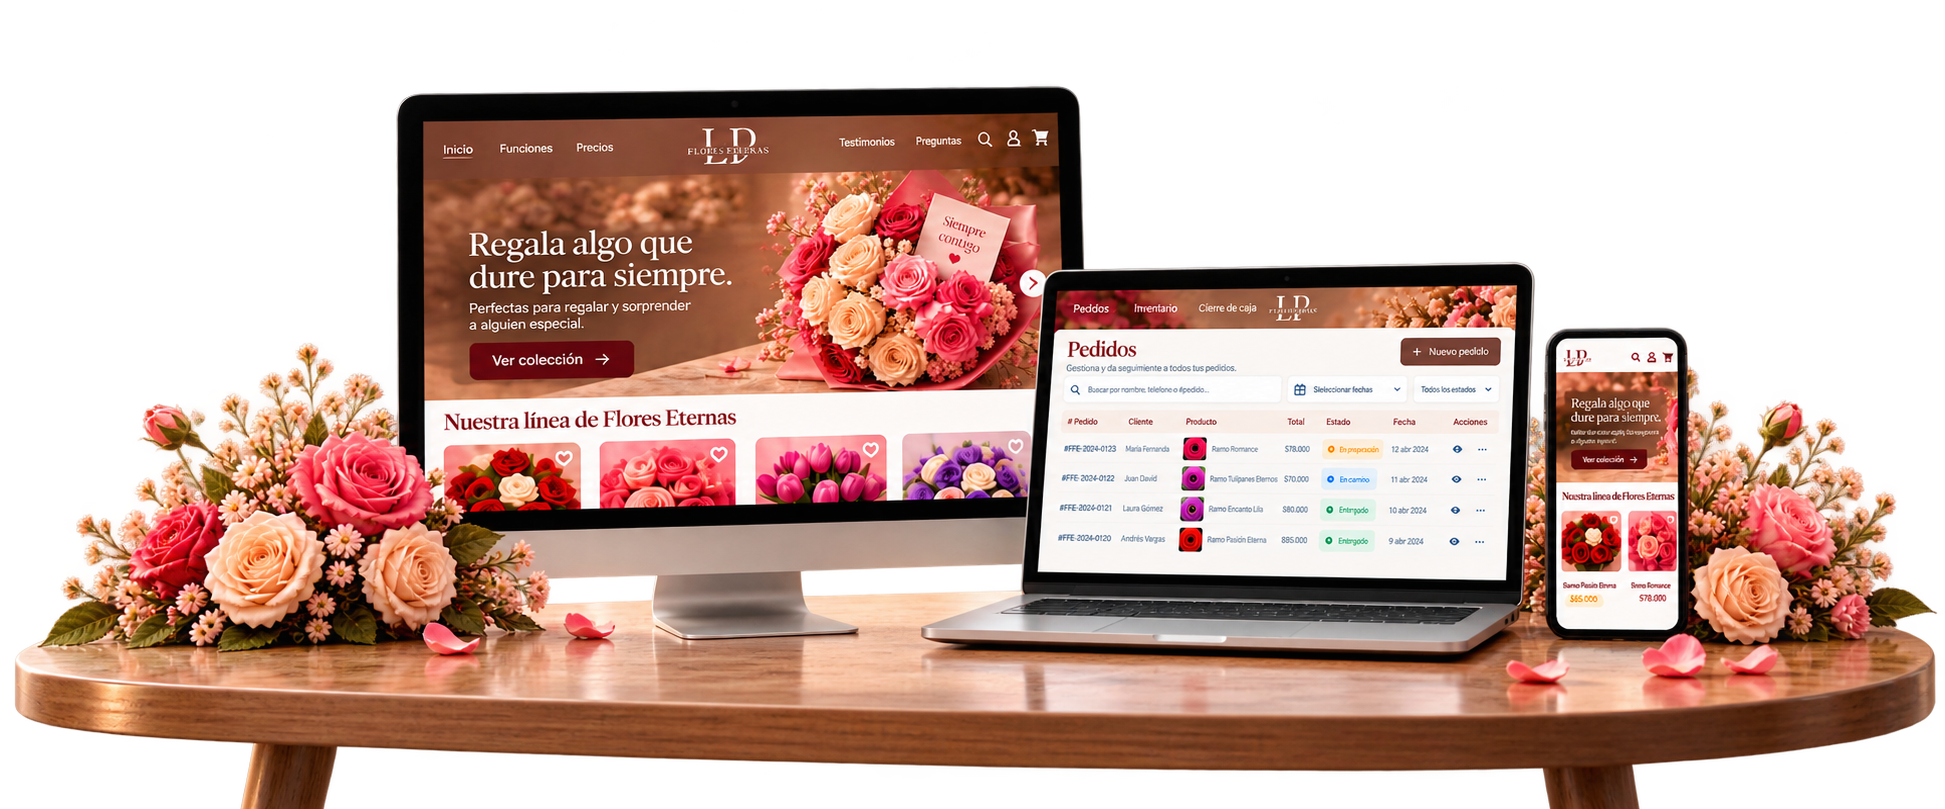
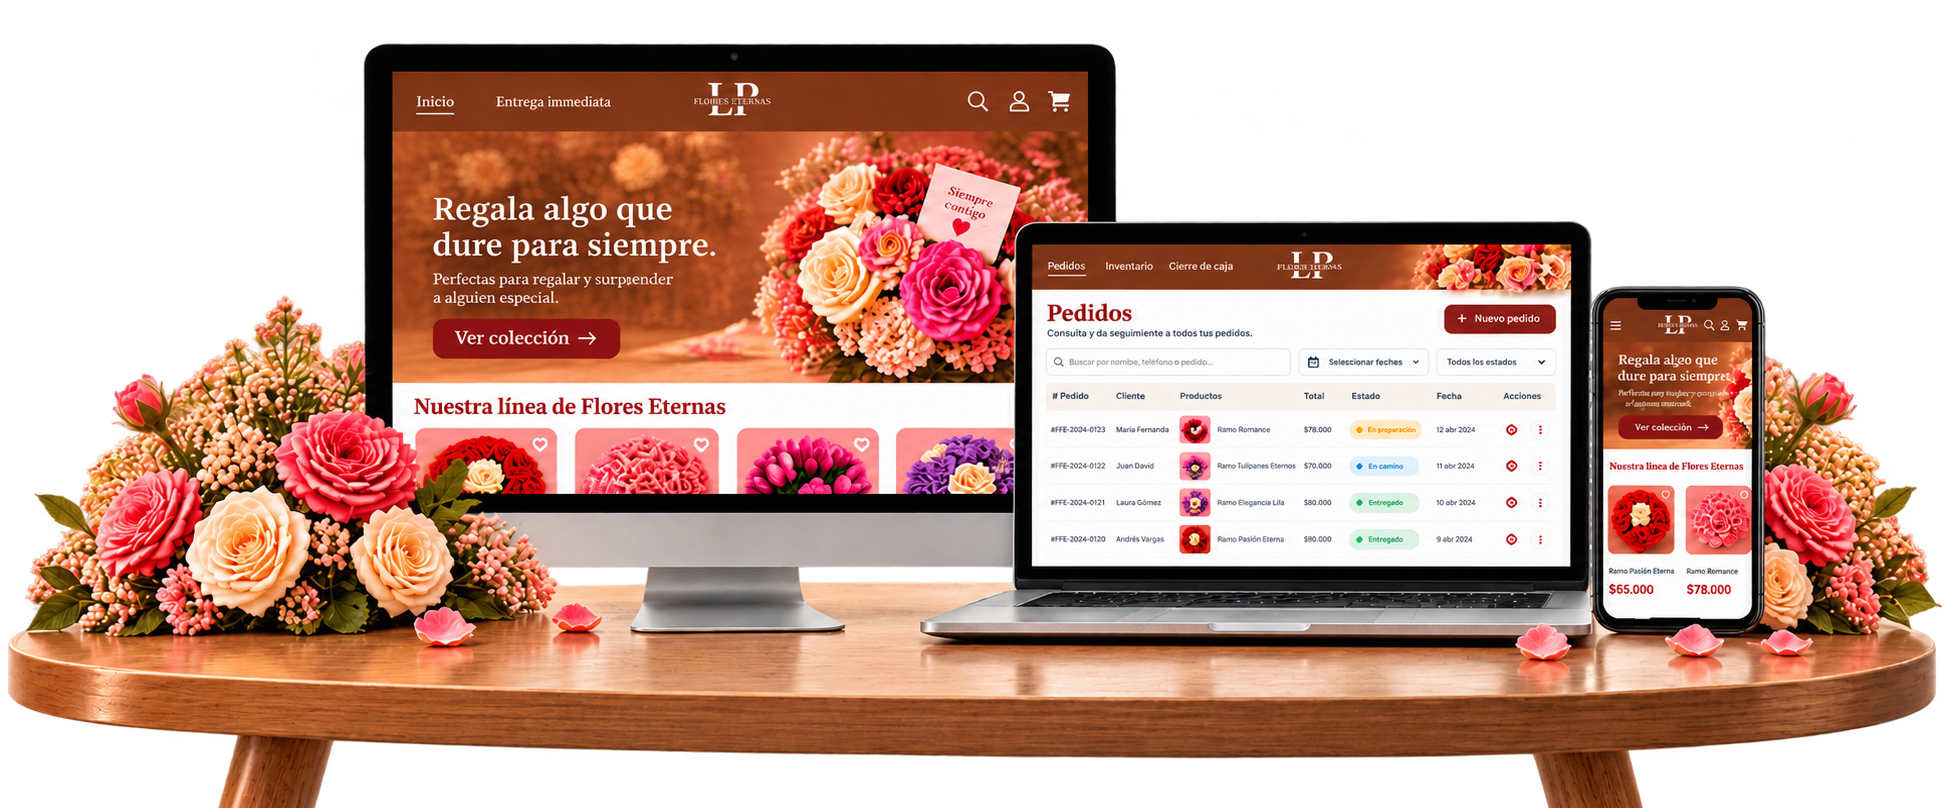
feat: add CTA component + integrate in Devices section
- Create reusable CTA component (src/components/CTA.jsx) with:
  - Props: size (sm/md/lg/xl), variant (default/compact/hero), titleSize, colorScheme-ready
  - Layout: className + style escape hatches for contextual positioning
  - Defaults: title '¿Lista para hacer crecer<br />tu negocio de flores eternas?', vino theme
  - Internal: arrowRightIcon, fondoHero pattern, ButtonSecondary white variant

- Update src/components/index.js: export CTA

- Refactor Home.jsx Devices section:
  - Switch to hero variant (min-h-[60vh]) with fondo3 background
  - Grid 2-col layout matching Hero 1/Admin patterns (text left, image right)
  - object-top crop on background (60% visible)
  - Image: mesaInferior scaled 1.6x, translated -150px X
  - Text: -translate-y-[150px] overlapping image (z-30)
  - Integrated CTA (20% smaller) with vino background + floral texture
  - Removed standalone CTA section

- Assets: add Flor2.png, Fondo3.png; remove flores general.png

diff --git a/src/pages/Home.jsx b/src/pages/Home.jsx
@@ -7,12 +7,14 @@ import {
   Body,
   ButtonPrimary,
   ButtonSecondary,
+  CTA,
 } from '../components';
 
 const fondoHero = '/images/Fondo.png';
 const mesaInferior = '/images/MesaInferior.png';
 const fondo2 = '/images/Fondo2.png';
 const fondoDevices = '/images/MesaInferior.png';
+const fondo3 = '/images/Fondo3.png';
 const flor1 = '/images/Flor1.png';
 const primeraImagen = '/images/PrimeraImagen.png';
 const imgPedidos = '/images/Pedidos.png';
@@ -28,12 +30,6 @@ const playIcon = (
 const arrowIcon = (
   <svg className="w-5 h-5" viewBox="0 0 24 24" fill="none" stroke="currentColor" strokeWidth={2} aria-hidden="true">
     <path strokeLinecap="round" strokeLinejoin="round" d="M17 8l4 4m0 0l-4 4m4-4H3" />
-  </svg>
-);
-
-const arrowRightIcon = (
-  <svg className="w-5 h-5" viewBox="0 0 24 24" fill="none" stroke="currentColor" strokeWidth={2} aria-hidden="true">
-    <path strokeLinecap="round" strokeLinejoin="round" d="M13 7l5 5m0 0l-5 5m5-5H6" />
   </svg>
 );
 
@@ -176,7 +172,7 @@ export default function Home() {
 
       {/* SECCIÓN: ADMINISTRA TU NEGOCIO */}
       <Section variant="adminHero" id="administra" aria-labelledby="admin-title" className="relative overflow-hidden">
-        {/* Fondo: Fondo2.png */}
+        {/* Fondo: Fondo2.png + gradientes legibilidad (origen inf-izq → sup-der) */}
         <div className="absolute inset-0 z-0" aria-hidden="true">
           <img
             src={fondo2}
@@ -184,6 +180,30 @@ export default function Home() {
             className="w-full h-full object-cover"
             loading="lazy"
           />
+          {/* Capa 1: Gradiente base diagonal inf-izq (nítido) → sup-der (máx. opacidad) */}
+          <div className="absolute inset-0 bg-gradient-to-tr from-transparent via-crema/15 to-crema/55" />
+          {/* Capa 1b: Refuerzo lateral derecho (zona paneles) - gradiente horizontal */}
+          <div className="absolute inset-0 bg-gradient-to-r from-transparent via-crema/5 to-crema/35" />
+          {/* Capa 2: Spotlight zona texto (inf-izq, mismo patrón que hero título) */}
+          <div className="absolute bottom-1/3 left-1/6 lg:bottom-1/3 lg:left-1/6 w-96 h-96 lg:w-[400px] lg:h-[400px] -translate-x-1/2 translate-y-1/2 bg-gradient-to-tr from-crema/30 via-crema/10 to-transparent rounded-full pointer-events-none" />
+          {/* Capa 3: Refuerzo esquina sup-der (máximo desenfoque visual) */}
+          <div className="absolute top-0 right-0 w-[500px] h-[500px] lg:w-[600px] lg:h-[600px] bg-gradient-to-bl from-crema/35 via-crema/15 to-transparent rounded-full pointer-events-none" />
+          {/* Flor2 - ramo en esquina inferior izquierda */}
+          <div className="absolute z-[6] pointer-events-none" aria-hidden="true"
+            style={{
+              bottom: '-8%',
+              left: '-4%',
+              width: '31%',
+              maxWidth: 'none',
+            }}>
+            <img
+              src="/images/Flor2.png"
+              alt=""
+              className="w-full h-auto drop-shadow-warm-xl opacity-90"
+              loading="eager"
+              style={{ objectFit: 'contain' }}
+            />
+          </div>
         </div>
 
         <div
@@ -267,79 +287,106 @@ export default function Home() {
       </Section>
 
       {/* SECCIÓN: DISPONIBLE EN TODOS TUS DISPOSITIVOS */}
-      <Section variant="devices" id="dispositivos" aria-labelledby="devices-title" className="relative">
-        {/* Fondo: Mesa inferior recortada + crema */}
+      <Section
+        variant="hero"
+        id="dispositivos"
+        aria-labelledby="devices-title"
+        className="relative overflow-hidden"
+        style={{ clipPath: 'inset(0 0 90px 0)', marginBottom: '-90px' }}
+      >
+        {/* Fondo: cubre toda la sección */}
         <div className="absolute inset-0 z-0" aria-hidden="true">
-          <img
-            src={fondoDevices}
-            alt=""
-            className="w-full h-full object-cover"
-            loading="lazy"
-          />
-          <div className="absolute inset-0 bg-crema/90" />
+          <img src={fondo3} alt="" className="w-full h-full object-cover object-top" loading="lazy" />
+          <div className="absolute inset-0 bg-gradient-to-tr from-transparent via-crema/10 to-crema/40" />
+          <div className="absolute inset-0 bg-gradient-to-tl from-transparent via-crema/10 to-crema/40" />
         </div>
 
-        <Container size="main" className="relative z-10">
-          <div className="text-center mb-16 lg:mb-20 animate-fade-in-up">
-            <Heading
-              id="devices-title"
-              level={2}
-              className="text-vino mb-6"
-            >
-              Disponible en todos tus dispositivos
-            </Heading>
-            <Body size="lg" color="cafe-oscuro" align="center" className="max-w-2xl mx-auto">
-              Accede desde tu computador, tablet o celular. Tu negocio siempre contigo, en tiempo real.
-            </Body>
-          </div>
-
-          <div className="relative animate-fade-in-up" style={{ animationDelay: '200ms' }}>
-            <img
-              src={mesaInferior}
-              alt="Composición de monitor de escritorio, laptop y celular con ramos de rosas a los lados"
-              className="w-full max-w-5xl mx-auto drop-shadow-warm-xl rounded-3xl"
-              loading="lazy"
-            />
-          </div>
-
-        </Container>
-      </Section>
-
-      {/* CTA FINAL BANNER */}
-      <Section variant="cta" id="cta" aria-labelledby="cta-title" className="relative">
-        <div className="absolute inset-0 bg-vino rounded-5xl overflow-hidden" aria-hidden="true">
-          {/* Textura floral sutil */}
-          <div className="absolute inset-0 opacity-5" style={{ backgroundImage: `url(${fondoHero})` }} />
-          <div className="absolute inset-0 bg-gradient-to-br from-vino/90 via-vino to-vino-hover" />
-        </div>
-
-        <Container size="main" className="relative z-10">
-          <div className="flex flex-col lg:flex-row lg:items-center justify-between gap-8 lg:gap-12 py-12 lg:py-16">
-            <div className="text-center lg:text-left animate-fade-in-up">
-              <Heading
-                id="cta-title"
-                level={2}
-                className="text-crema mb-4"
+        <div
+          className="relative z-20"
+          style={{ paddingTop: '64px', paddingBottom: '48px', paddingLeft: '8%', paddingRight: '6%' }}
+        >
+          <div className="grid lg:grid-cols-[minmax(0,40%)_minmax(0,60%)] gap-8 lg:gap-6 items-center">
+            {/* TEXTO */}
+            <div className="relative z-30 text-center lg:text-left animate-fade-in-up -translate-y-[150px]" style={{ animationDelay: '100ms' }}>
+              <h2 id="devices-title" className="font-lora text-vino text-5xl xl:text-6xl leading-[1.05]">
+                Disponible en
+                <br />
+                todos tus dispositivos.
+              </h2>
+              <Body
+                size="lg"
+                color="cafe-oscuro"
+                className="!mt-6 !mb-0 max-w-sm mx-auto lg:mx-0 text-center lg:text-left"
               >
-                ¿Lista para hacer crecer tu floristería?
-              </Heading>
-              <Body size="lg" color="crema" align="center" className="lg:text-left max-w-xl mx-auto lg:mx-0 opacity-90">
-                Descubre todo lo que puedes hacer con Flores Eternas.
+                Accede desde tu computador, tablet o celular. Tu negocio siempre contigo, en tiempo real.
               </Body>
             </div>
 
-            <div className="flex justify-center lg:justify-end animate-fade-in-up" style={{ animationDelay: '200ms' }}>
-              <ButtonSecondary
-                iconRight={arrowRightIcon}
-                variant="white"
-                className="px-4 py-2 text-lg"
-              >
-                Conocer la plataforma
-              </ButtonSecondary>
+            {/* IMAGEN (la ajustas tú) */}
+            <div className="relative z-10 animate-fade-in-up -translate-x-[80px] scale-155" style={{ animationDelay: '300ms' }}>
+              <img
+                src={mesaInferior}
+                alt="Composición de monitor de escritorio, laptop y celular con ramos de rosas a los lados"
+                className="w-full mx-auto drop-shadow-warm-xl"
+                loading="lazy"
+              />
             </div>
           </div>
-        </Container>
+
+          {/* CTA */}
+          <CTA
+            size="sm"
+            title="¿Lista para hacer crecer<br />tu negocio de flores eternas?"
+            titleSize="!text-2xl md:!text-3xl"
+            animationDelay="400ms"
+            className="mt-10"
+            style={{ maxWidth: '1550px', padding: '20px 32px' }}
+          />
+        </div>
       </Section>
+      {/* FOOTER */}
+{/* FOOTER */}
+<footer
+  className="relative bg-vino text-crema"
+  style={{ zIndex: 1, padding: '48px 8% 32px 8%' }}
+>
+  <div className="grid lg:grid-cols-[1.2fr_1fr] gap-10 lg:gap-16">
+    {/* Marca + descripción */}
+    <div className="text-center lg:text-left">
+      <p className="font-lora text-3xl">Flores Eternas</p>
+      <p className="text-sm opacity-80 mt-2 max-w-md mx-auto lg:mx-0">
+        Plataforma web para gestionar pedidos, inventario y cierre de caja,
+        diseñada para floristerías que quieren crecer sin complicaciones.
+      </p>
+    </div>
+
+    {/* Tecnologías */}
+    <div className="text-center lg:text-left">
+      <p className="text-xs uppercase tracking-widest opacity-70 mb-3">
+        Construido con
+      </p>
+      <ul className="flex flex-wrap justify-center lg:justify-start gap-2">
+        {['React', 'Tailwind CSS', 'JavaScript', 'Vite', 'Node.js'].map((tech) => (
+          <li
+            key={tech}
+            className="text-sm px-3 py-1 rounded-full border border-crema/30 bg-crema/10"
+          >
+            {tech}
+          </li>
+        ))}
+      </ul>
+    </div>
+  </div>
+
+  {/* Línea inferior */}
+  <div className="mt-8 pt-5 border-t border-crema/20 flex flex-col lg:flex-row justify-between items-center gap-3 text-xs opacity-80">
+    <p>© 2026 Flores Eternas. Todos los derechos reservados.</p>
+    <nav aria-label="Enlaces legales" className="flex gap-5">
+      <a href="#" className="hover:underline">Términos y condiciones</a>
+      <a href="#" className="hover:underline">Política de privacidad</a>
+    </nav>
+  </div>
+</footer>
     </>
   );
 }

diff --git a/src/components/CTA.jsx b/src/components/CTA.jsx
@@ -1,0 +1,125 @@
+import { forwardRef, Fragment } from 'react';
+import { Heading, Body, ButtonSecondary } from './index';
+
+const fondoHero = '/images/Fondo.png';
+
+const arrowRightIcon = (
+  <svg className="w-5 h-5" viewBox="0 0 24 24" fill="none" stroke="currentColor" strokeWidth={2} aria-hidden="true">
+    <path strokeLinecap="round" strokeLinejoin="round" d="M13 7l5 5m0 0l-5 5m5-5H6" />
+  </svg>
+);
+
+const sizeStyles = {
+  sm: {
+    padding: 'px-6 py-4',
+    heading: 'text-2xl md:text-3xl',
+    bodySize: 'sm',
+    button: 'px-3 py-1.5 text-sm',
+    gap: 'gap-4',
+    radius: 'rounded-xl',
+  },
+  md: {
+    padding: 'px-8 py-6',
+    heading: 'text-3xl md:text-4xl',
+    bodySize: 'base',
+    button: 'px-4 py-2 text-base',
+    gap: 'gap-6',
+    radius: 'rounded-2xl',
+  },
+  lg: {
+    padding: 'px-10 py-8',
+    heading: 'text-4xl md:text-5xl lg:text-6xl',
+    bodySize: 'lg',
+    button: 'px-5 py-2.5 text-lg',
+    gap: 'gap-8 lg:gap-12',
+    radius: 'rounded-[2.5rem]',
+  },
+  xl: {
+    padding: 'px-12 py-12',
+    heading: 'text-5xl md:text-6xl lg:text-7xl',
+    bodySize: 'xl',
+    button: 'px-6 py-3 text-xl',
+    gap: 'gap-10 lg:gap-14',
+    radius: 'rounded-4xl',
+  },
+};
+
+const variantStyles = {
+  default: 'max-w-7xl mx-auto flex flex-col lg:flex-row lg:items-center justify-between',
+  compact: 'max-w-xl mx-auto flex flex-col items-center text-center',
+  hero: 'w-full flex flex-col lg:flex-row lg:items-center justify-between',
+};
+
+const CTA = forwardRef(
+  ({
+    title = '¿Lista para hacer crecer<br />tu negocio de flores eternas?',
+    description = 'Descubre todo lo que puedes hacer con Flores Eternas.',
+    buttonText = 'Conocer la plataforma',
+    size = 'lg',
+    variant = 'default',
+    rounded,
+    animationDelay = '400ms',
+    backgroundImage,
+    className = '',
+    style = {},
+    titleSize,
+    ...props
+  }, ref) => {
+    const s = sizeStyles[size] || sizeStyles.lg;
+    const v = variantStyles[variant] || variantStyles.default;
+    const radius = rounded || s.radius;
+    const bgImage = backgroundImage || fondoHero;
+    const headingSize = titleSize || s.heading;
+
+    return (
+      <div
+        ref={ref}
+        className={`relative z-20 animate-fade-in-up ${v} ${s.gap} ${s.padding} ${radius} ${className}`}
+        style={{ animationDelay, ...style }}
+        {...props}
+      >
+        <div className="absolute inset-0 bg-vino overflow-hidden rounded-[inherit]" aria-hidden="true">
+          <div className="absolute inset-0 opacity-5" style={{ backgroundImage: `url(${bgImage})` }} />
+          <div className="absolute inset-0 bg-gradient-to-br from-vino/90 via-vino to-vino-hover" />
+        </div>
+
+        <div className="relative w-full flex flex-col lg:flex-row lg:items-center justify-between gap-6">
+          <div className="text-center lg:text-left">
+            <Heading
+              level={2}
+              className={`text-crema mb-4 ${headingSize} leading-[1.1]`}
+            >
+              {title.split('<br />').map((part, i) => (
+                <Fragment key={i}>
+                  {part}
+                  {i < title.split('<br />').length - 1 && <br />}
+                </Fragment>
+              ))}
+            </Heading>
+            <Body
+              size={s.bodySize}
+              color="crema"
+              className="!mt-4 !mb-0 max-w-xl mx-auto lg:mx-0 text-center lg:text-left opacity-90"
+            >
+              {description}
+            </Body>
+          </div>
+
+          <div className="flex justify-center lg:justify-end shrink-0">
+            <ButtonSecondary
+              iconRight={arrowRightIcon}
+              variant="white"
+              className={`whitespace-nowrap ${s.button}`}
+            >
+              {buttonText}
+            </ButtonSecondary>
+          </div>
+        </div>
+      </div>
+    );
+  }
+);
+
+CTA.displayName = 'CTA';
+
+export default CTA;

diff --git a/src/components/index.js b/src/components/index.js
@@ -8,4 +8,5 @@ export { default as Heading } from './Heading';
 export { default as Body } from './Body';
 export { default as Price } from './Price';
 export { default as Badge } from './Badge';
+export { default as CTA } from './CTA';
 export { statusConfig } from './Badge.config';
